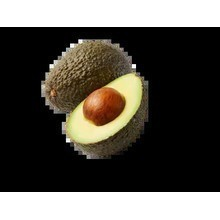
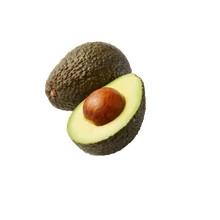
fix: composite transparent product images onto white

diff --git a/build_site.py b/build_site.py
@@ -68,12 +68,12 @@ def normalize_image_file(path: Path) -> bool:
     try:
         from PIL import Image
         with Image.open(path) as im:
-            if im.size == (THUMB, THUMB):
+            if im.size == (THUMB, THUMB) and im.mode == "RGB":
                 return True
-            im = im.convert("RGB")
+            im = im.convert("RGBA")
             im.thumbnail((THUMB, THUMB), Image.LANCZOS)
             canvas = Image.new("RGB", (THUMB, THUMB), (255, 255, 255))
-            canvas.paste(im, ((THUMB - im.width) // 2, (THUMB - im.height) // 2))
+            canvas.paste(im, ((THUMB - im.width) // 2, (THUMB - im.height) // 2), im.getchannel("A"))
             canvas.save(path, "JPEG", quality=90)
         return True
     except Exception:
@@ -105,10 +105,10 @@ def cache_image(product_id: str, image_url: str) -> str:
             src = raw
         from PIL import Image
         with Image.open(src) as im:
-            im = im.convert("RGB")
+            im = im.convert("RGBA")
             im.thumbnail((THUMB, THUMB), Image.LANCZOS)
             canvas = Image.new("RGB", (THUMB, THUMB), (255, 255, 255))
-            canvas.paste(im, ((THUMB - im.width) // 2, (THUMB - im.height) // 2))
+            canvas.paste(im, ((THUMB - im.width) // 2, (THUMB - im.height) // 2), im.getchannel("A"))
             canvas.save(dest, "JPEG", quality=90)
     except Exception:
         # Retry on the next build, not for every table/product-page rendering.

diff --git a/tests/test_image_transparency.py b/tests/test_image_transparency.py
@@ -1,0 +1,27 @@
+from PIL import Image
+import build_site
+import pytest
+
+
+@pytest.mark.parametrize('size', [(40, 30), (220, 220)])
+def test_normalize_composites_transparency_on_white(tmp_path, size):
+    path = tmp_path / 'transparent.png'
+    Image.new('RGBA', size, (0, 0, 0, 0)).save(path)
+    assert build_site.normalize_image_file(path)
+    with Image.open(path) as result:
+        assert result.mode == 'RGB'
+        assert result.size == (220, 220)
+        assert min(result.getpixel((110, 110))) >= 250
+
+
+def test_cache_composites_transparency_on_white(tmp_path, monkeypatch):
+    source = tmp_path / 'source.png'
+    image = Image.new('RGBA', (100, 100), (0, 0, 0, 0))
+    image.paste((0, 160, 0, 255), (30, 30, 70, 70))
+    image.save(source)
+    monkeypatch.setattr(build_site, 'IMG_DIR', tmp_path / 'cache')
+    result = build_site.cache_image('avocado', source.as_uri())
+    assert result == 'img/avocado.png'
+    with Image.open(tmp_path / 'cache' / 'avocado.png') as output:
+        assert min(output.getpixel((65, 65))) >= 250
+        assert output.getpixel((110, 110))[1] > 130
